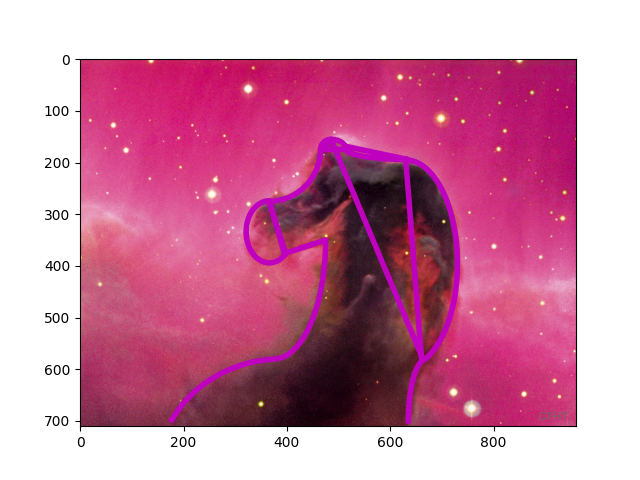
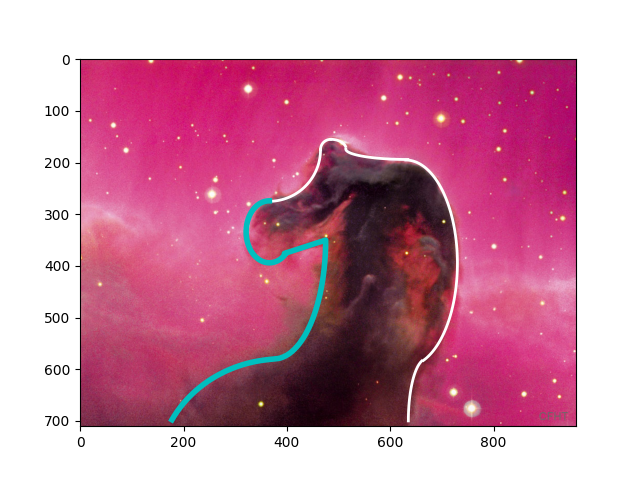
tfhbnj

diff --git a/lec_1_head2.py b/lec_1_head2.py
@@ -26,7 +26,7 @@ ax.plot(x2, y2, '-', lw=2, color='w')
 x = np.append(x, x2)
 y = np.append(y, y2)
 
-t3 = np.linspace(np.pi/2, 3*np.pi/2+np.pi/4, 100)
+t3 = np.linspace(3*np.pi/2+np.pi/4, np.pi/2, 100)
 x3 = 366 + 45*np.cos(t3)
 y3 = 334 - 60*np.sin(t3)
 ax.plot(x3, y3, '-', lw=2, color='w')
@@ -34,59 +34,59 @@ ax.plot(x3, y3, '-', lw=2, color='w')
 x = np.append(x, x3)
 y = np.append(y, y3)
 
-t4 = np.linspace(3*np.pi/2, 2*np.pi, 100)
+t4 = np.linspace(2*np.pi,3*np.pi/2,  100)
 x4 = 365 + 100*np.cos(t4)
 y4 = 175 - 100*np.sin(t4)
 ax.plot(x4, y4, '-', lw=2, color='w')
 
-x = np.append(x, x4)
-y = np.append(y, y4)
+# x = np.append(x, x4)
+# y = np.append(y, y4)
 
-t5 = np.linspace(np.pi/2, np.pi, 100)
+t5 = np.linspace( np.pi,np.pi/2, 100)
 x5 = 485 + 20*np.cos(t5)
 y5 = 175 - 20*np.sin(t5)
 ax.plot(x5, y5, '-', lw=2, color='w')
 
-x = np.append(x, x5)
-y = np.append(y, y5)
+# x = np.append(x, x5)
+# y = np.append(y, y5)
 
-t6 = np.linspace(np.pi, 3*np.pi/2, 100)
+t6 = np.linspace(3*np.pi/2, np.pi,  100)
 x6 = 634 + 120*np.cos(t6)
 y6 = 174 - 20*np.sin(t6)
 ax.plot(x6, y6, '-', lw=2, color='w')
 
-x = np.append(x, x6)
-y = np.append(y, y6)
+# x = np.append(x, x6)
+# y = np.append(y, y6)
 
 t7 = np.linspace(np.pi/10, np.pi/2, 100)
 x7 = 485 + 30*np.cos(t7)
 y7 = 175 - 20*np.sin(t7)
 ax.plot(x7, y7, '-', lw=2, color='w')
 
-x = np.append(x, x7)
-y = np.append(y, y7)
+# x = np.append(x, x7)
+# y = np.append(y, y7)
 
-t8 = np.linspace(-np.pi/2+np.pi/9, np.pi/2, 100)
+t8 = np.linspace(np.pi/2, -np.pi/2+np.pi/9, 100)
 x8 = 630 + 100*np.cos(t8)
 y8 = 395 - 200*np.sin(t8)
 ax.plot(x8, y8, '-', lw=2, color='w')
 
-x = np.append(x, x8)
-y = np.append(y, y8)
+# x = np.append(x, x8)
+# y = np.append(y, y8)
 
 t9 = np.linspace(np.pi/2+np.pi/12, np.pi, 100)
 x9 = 670 + 35*np.cos(t9)
 y9 = 700 - 120*np.sin(t9)
 ax.plot(x9, y9, '-', lw=2, color='w')
 
-x = np.append(x, x9)
-y = np.append(y, y9)
+# x = np.append(x, x9)
+# y = np.append(y, y9)
 
 
 splire_coords, figure_spline_part = interpolate.splprep([x, y], s=0)
 figure_spline_part_manual = np.arange(0, 0.5, 0.01)
 spline_curve = interpolate.splev(figure_spline_part, splire_coords )
 
-plt.plot(spline_curve[0], spline_curve[1], 'm', lw=4)
+plt.plot(spline_curve[0], spline_curve[1], 'c', lw=4)
 
 plt.savefig("horseapp.png")

diff --git a/lec_1_point_in_poligon.py b/lec_1_point_in_poligon.py
@@ -1,0 +1,33 @@
+import matplotlib.pyplot as plt
+import numpy as np
+from scipy import interpolate
+import shapely.geometry as geom
+
+phi = np.linspace(0, 2*np.pi, 40)
+r = 0.5 + np.cos(phi)
+x = r*np.cos(phi)
+y = r*np.sin(phi)
+
+splire_coords, figure_spline_part = interpolate.splprep([x, y], s=0)
+spline_curve = interpolate.splev(figure_spline_part, splire_coords )
+
+curve_coords = []
+for i in range(len(spline_curve[0])):
+    curve_coords.append([spline_curve[0][i], spline_curve[1][i]])
+
+
+polygon = geom.Polygon(curve_coords)
+points_number_per_side = 100
+x_pictures_limits = [-0.5, 2]
+y_pictures_limits = [-1, 1]
+
+for x_point_coord in np.linspace(*x_pictures_limits, points_number_per_side):
+    for y_point_coord in np.linspace(*y_pictures_limits, points_number_per_side):
+        p = geom.Point(x_point_coord, y_point_coord)
+        if p.within(polygon):
+            plt.plot(x_point_coord, y_point_coord, 'co', ms = 0.5)
+
+
+plt.plot(spline_curve[0], spline_curve[1], 'm')
+plt.axis('equal')
+plt.savefig("poligon.png")
